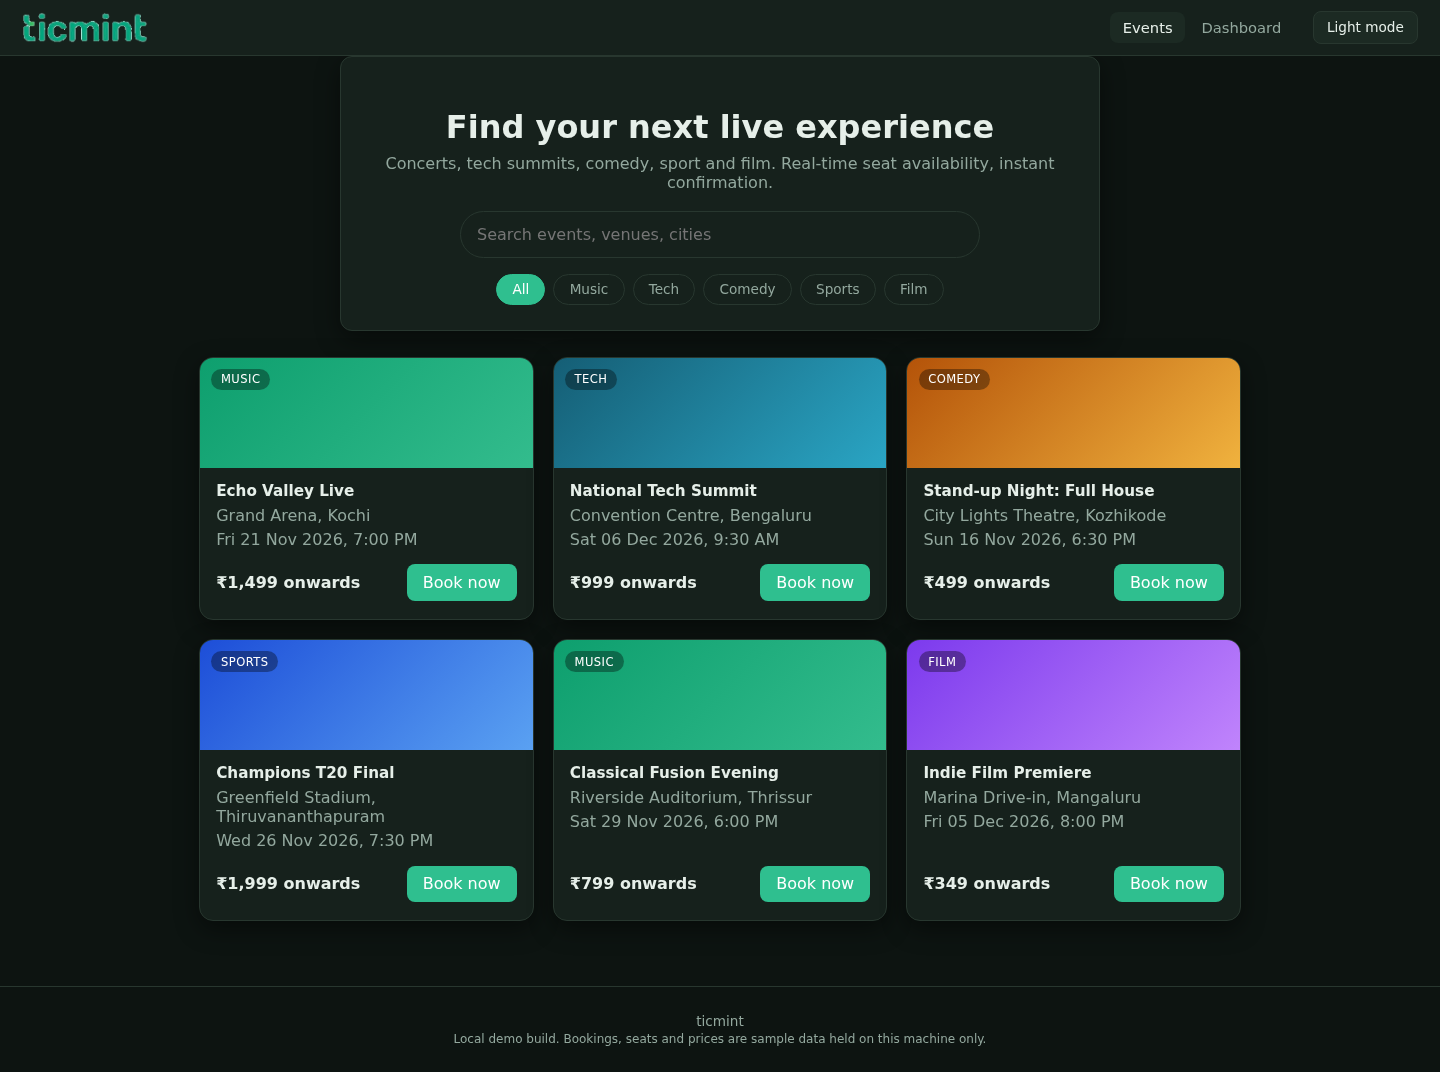
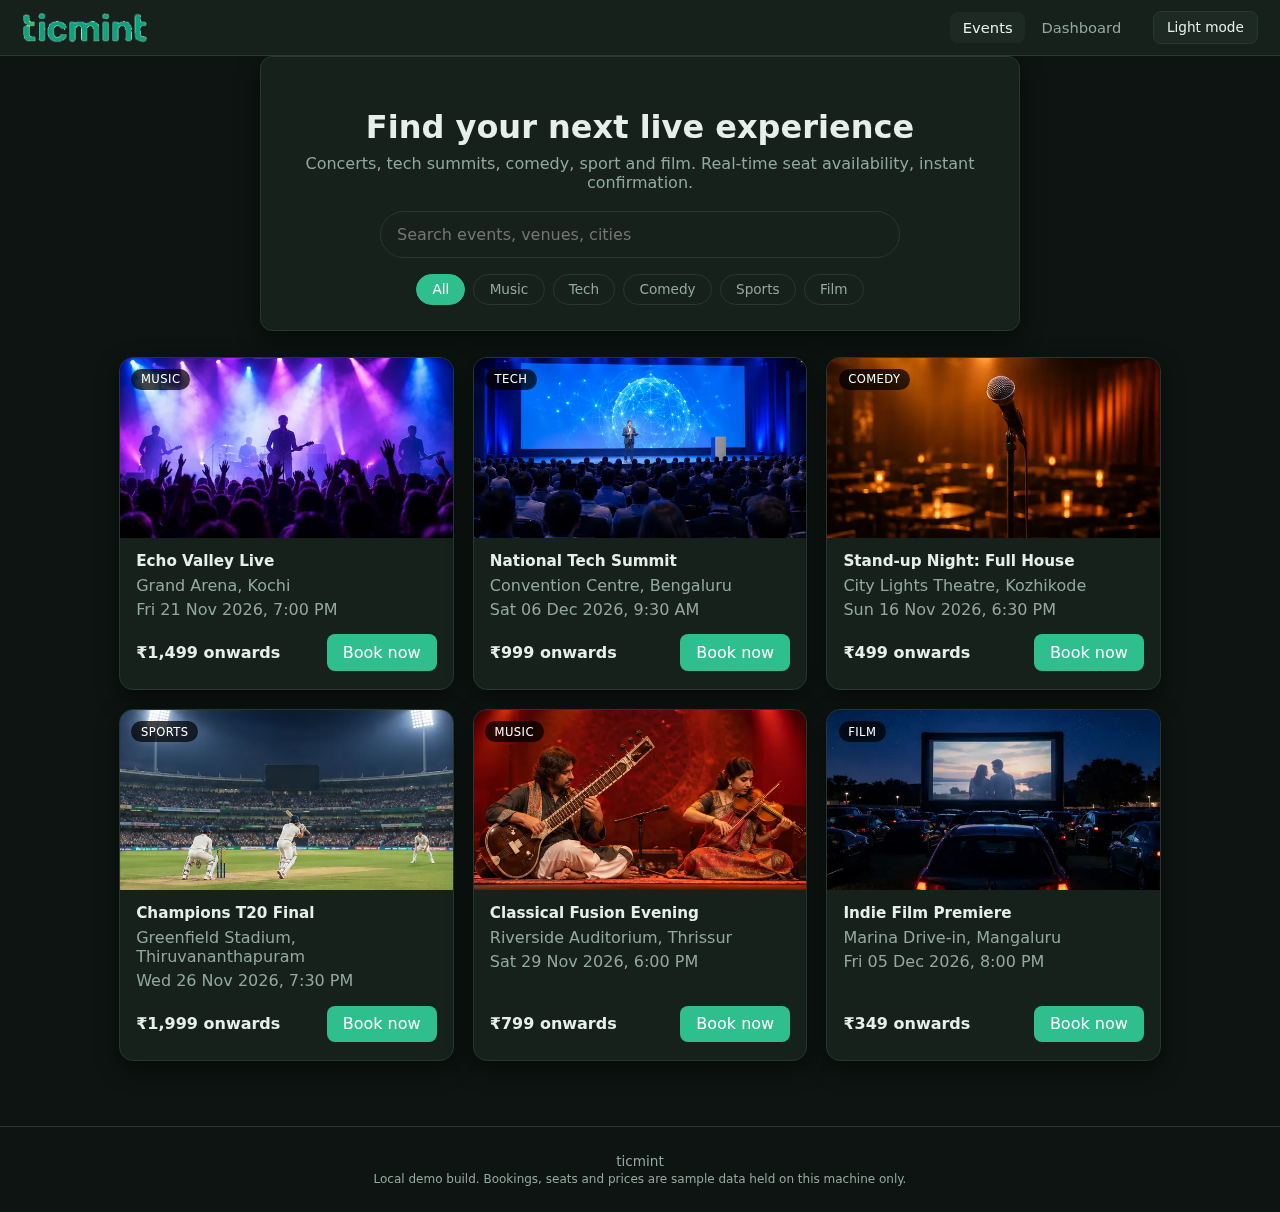
Add compact offline event images to booking cards and details

diff --git a/static/booking.js b/static/booking.js
@@ -1,7 +1,24 @@
 const $=id=>document.getElementById(id);
 let EVENTS=[],current=null,selected=new Set(),category='All';
 const CATS=['All','Music','Tech','Comedy','Sports','Film'];
-const GRADIENTS={Music:'linear-gradient(135deg,#0e9f6e,#33bc8d)',Tech:'linear-gradient(135deg,#155e75,#2aa5c4)',Comedy:'linear-gradient(135deg,#b45309,#f0b23e)',Sports:'linear-gradient(135deg,#1d4ed8,#5aa1f2)',Film:'linear-gradient(135deg,#7c3aed,#c084fc)'};
+const EVENT_IMAGES={
+  'event-001':{file:'echo-valley.webp',alt:'Purple-lit concert stage and crowd'},
+  'event-002':{file:'tech-summit.webp',alt:'Audience at a blue-lit technology conference'},
+  'event-003':{file:'comedy-night.webp',alt:'Microphone on a warmly lit comedy stage'},
+  'event-004':{file:'cricket-final.webp',alt:'Cricket players in a floodlit stadium'},
+  'event-005':{file:'classical-fusion.webp',alt:'Sitar and violin performers on a red-lit stage'},
+  'event-006':{file:'film-premiere.webp',alt:'Outdoor cinema screen and parked cars at night'}
+};
+function eventImage(event,cls){
+  const info=EVENT_IMAGES[event.id];
+  if(!info)return null;
+  const img=node('img',undefined,cls);
+  img.src='/static/events/'+info.file;img.alt=info.alt;
+  img.width=536;img.height=357;img.loading='lazy';img.decoding='async';
+  img.title='Illustrative generated image, not a photograph of the listed event';
+  img.addEventListener('error',()=>img.hidden=true,{once:true});
+  return img;
+}
 function node(tag,text,cls){const e=document.createElement(tag);if(text!==undefined)e.textContent=text;if(cls)e.className=cls;return e;}
 async function api(path,options){const r=await fetch(path,options);let body={};try{body=await r.json();}catch(e){}return {ok:r.ok,status:r.status,...body};}
 function money(p){return '₹'+Number(p).toLocaleString('en-IN');}
@@ -13,7 +30,8 @@ function renderGrid(){
   if(!list.length){grid.append(node('p','No events match that search.','muted'));return;}
   for(const e of list){
     const card=node('article','','card');
-    const banner=node('div','','card-banner');banner.style.background=GRADIENTS[e.category]||GRADIENTS.Music;
+    const banner=node('div','','card-banner');
+    const image=eventImage(e,'event-photo');if(image)banner.append(image);
     banner.append(node('span',e.category,'tag'));
     card.append(banner);
     const body=node('div','','card-body');
@@ -28,6 +46,8 @@ async function openEvent(id){
   current=EVENTS.find(e=>e.id===id);selected=new Set();
   $('home-view').hidden=true;$('event-view').hidden=false;
   $('ev-title').textContent=current.title;
+  const hero=eventImage(current,'event-detail-photo');
+  $('ev-image').replaceChildren(...(hero?[hero]:[]));
   $('ev-meta').textContent=`${current.venue} · ${current.date} · ${money(current.price)} per seat`;
   $('ord-event').textContent=current.title;
   $('ord-result').textContent='';$('confirm').disabled=true;

diff --git a/static/style.css b/static/style.css
@@ -27,8 +27,12 @@ h1{font-size:1.4rem}h2{font-size:1.02rem;margin-bottom:.6rem}h3{font-size:.95rem
 .chip.active{background:var(--accent);color:#fff;border-color:var(--accent)}
 .event-grid{display:grid;grid-template-columns:repeat(auto-fill,minmax(260px,1fr));gap:1.2rem;max-width:1080px;margin:1.6rem auto;padding:0 1.2rem 2.5rem}
 .card{background:var(--panel);border:1px solid var(--border);border-radius:14px;overflow:hidden;box-shadow:var(--shadow);display:flex;flex-direction:column}
-.card-banner{height:110px;position:relative}
-.card-banner .tag{position:absolute;top:.7rem;left:.7rem;background:rgba(0,0,0,.35);color:#fff;font-size:.72rem;padding:.22rem .6rem;border-radius:999px;letter-spacing:.04em;text-transform:uppercase}
+.card-banner{height:180px;position:relative;background:var(--panel-2);overflow:hidden}
+.event-photo{display:block;width:100%;height:100%;object-fit:cover;transition:transform .25s ease}
+.card:hover .event-photo{transform:scale(1.035)}
+.event-detail-photo{display:block;width:100%;height:240px;object-fit:cover;border-radius:12px;margin-bottom:1rem}
+@media (prefers-reduced-motion:reduce){.event-photo{transition:none}.card:hover .event-photo{transform:none}}
+.card-banner .tag{position:absolute;top:.7rem;left:.7rem;background:rgba(0,0,0,.72);color:#fff;font-size:.72rem;padding:.22rem .6rem;border-radius:999px;letter-spacing:.04em;text-transform:uppercase}
 .card-body{padding:.9rem 1rem 1.1rem;display:flex;flex-direction:column;gap:.35rem;flex:1}
 .card-row{display:flex;align-items:center;justify-content:space-between;margin-top:auto;padding-top:.6rem}
 .link-button{background:none;color:var(--accent);padding:.4rem 0}

diff --git a/templates/booking.html b/templates/booking.html
@@ -17,6 +17,7 @@
   <button id="back" class="link-button" type="button"><span class="icon icon-back" aria-hidden="true"></span>All events</button>
   <div class="event-detail">
     <div class="seat-area">
+      <div id="ev-image"></div>
       <h2 id="ev-title"></h2>
       <p id="ev-meta" class="muted"></p>
       <div class="stage">STAGE</div>

diff --git a/tests/test_project.py b/tests/test_project.py
@@ -34,6 +34,22 @@ class ProjectTests(unittest.TestCase):
         for icon in ('home','logs','traces','metrics','security','scenarios','services'):
             self.assertIn('icon-'+icon,body)
             self.assertEqual(self.client.get('/static/icons/'+icon+'.svg').status_code,200)
+    def test_local_event_photos(self):
+        files=('echo-valley','tech-summit','comedy-night','cricket-final','classical-fusion','film-premiere')
+        total=0
+        for name in files:
+            response=self.client.get('/static/events/'+name+'.webp')
+            self.assertEqual(response.status_code,200)
+            self.assertEqual(response.mimetype,'image/webp')
+            self.assertTrue(response.data.startswith(b'RIFF'))
+            total+=len(response.data);response.close()
+        self.assertLess(total,180_000)
+    def test_event_photo_wiring(self):
+        script=Path('static/booking.js').read_text()
+        for event in self.system.events:
+            self.assertIn(event['id'],script)
+        self.assertIn("img.loading='lazy'",script)
+        self.assertIn('id="ev-image"',self.client.get('/').get_data(as_text=True))
     def test_successful_booking(self):
         response=self.book();self.assertEqual(response.status_code,201)
         self.assertEqual(response.json['booking']['price'],1499)

diff --git a/static/events/README.md b/static/events/README.md
@@ -1,0 +1,7 @@
+# Event images
+
+Six original generated illustrative images for this fictional local demo, created on 2026-10-13. They are not photos of the named events, performers or venues, and imply no endorsement. No external stock photos, hotlinks, brand marks or personal photos are used. These assets may be reused with this demo; no third-party stock attribution is required.
+
+All images are compact WebP files served locally. Combined size is about 134 KiB. The source contact sheet is intentionally not shipped. The browser does not need internet access to show them.
+
+Mapping: echo-valley (concert), tech-summit (conference), comedy-night (microphone), cricket-final (stadium), classical-fusion (sitar and violin), film-premiere (drive-in cinema).

diff --git a/README.md b/README.md
@@ -119,3 +119,7 @@ artifacts/      runtime JSONL logs/traces/alerts (git-ignored)
 - The source plan's cloud rollout, senior reviews, Jira/Slack setup and production definition of done are not claimed complete.
 
 See [architecture](docs/architecture.md), [report mapping](docs/report-mapping.md) and [security runbook](docs/security-runbook.md).
+
+### Event artwork
+
+The booking cards and event details use six original generated illustrative images, not photos of the named sample events. The WebP assets in `static/events/` total about 134 KiB and work offline after setup. No external image requests or extra packages are needed. See `static/events/README.md` for the asset mapping and reuse notes.
